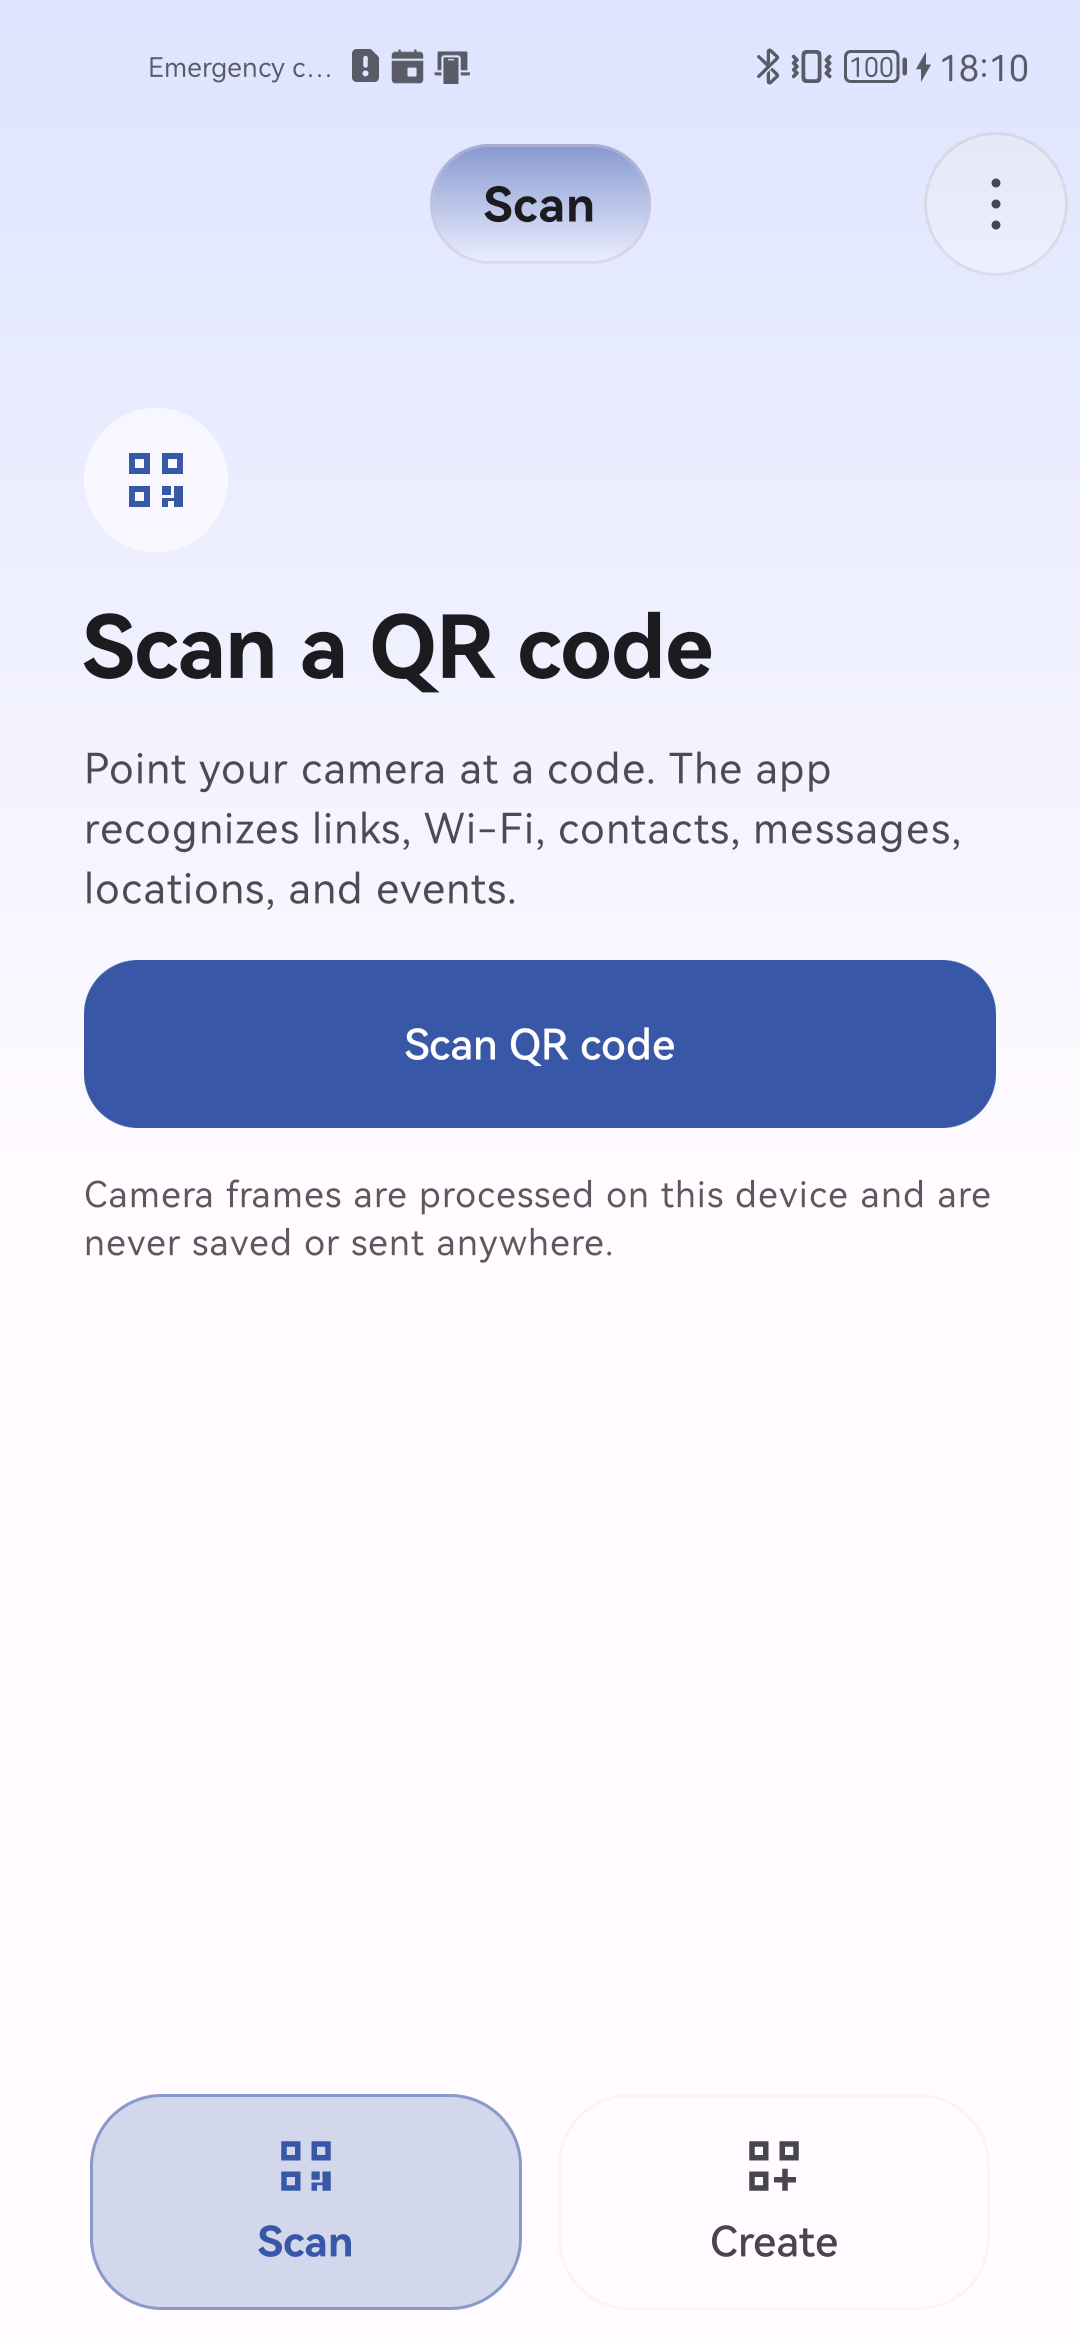
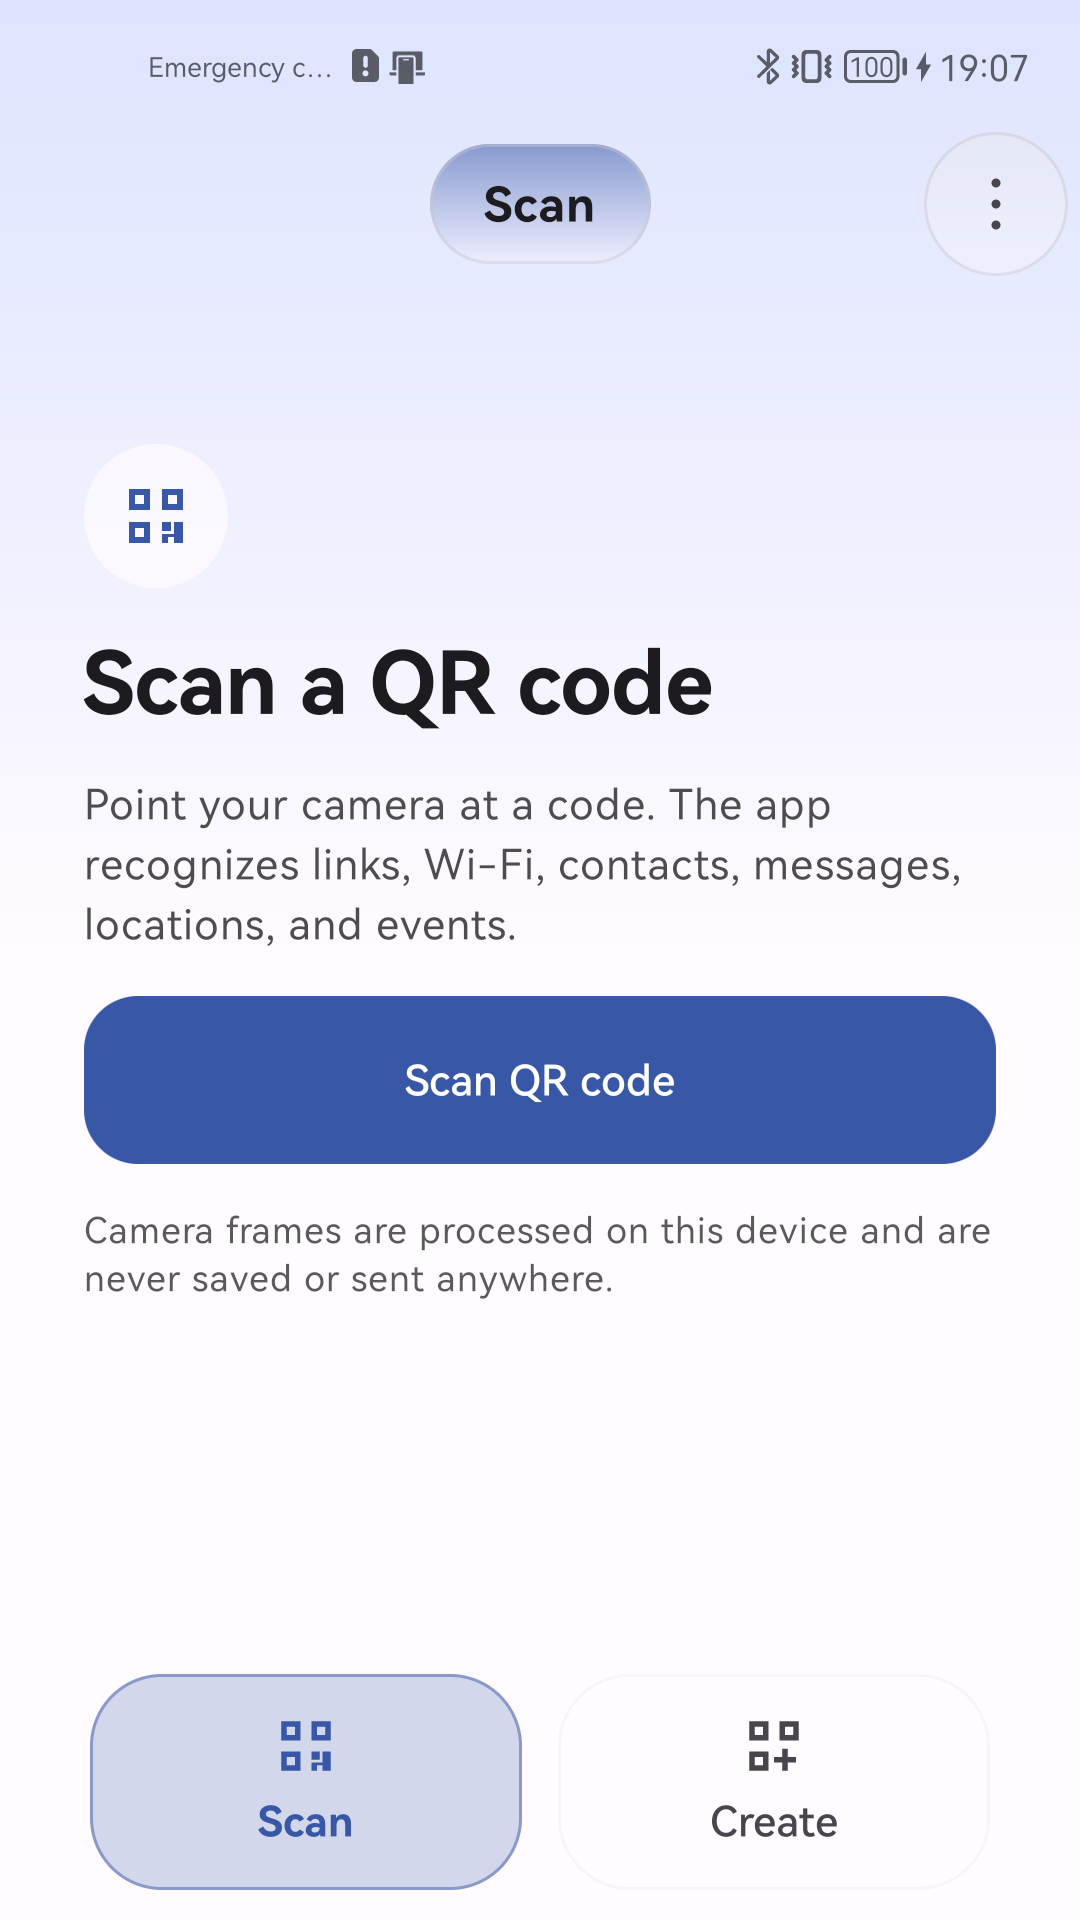
fix(ui): let content scroll under controls (#6)

diff --git a/app/src/main/java/com/majkeylab/qrscannercreator/AppUi.kt b/app/src/main/java/com/majkeylab/qrscannercreator/AppUi.kt
@@ -38,7 +38,6 @@ import androidx.compose.material3.Icon
 import androidx.compose.material3.IconButton
 import androidx.compose.material3.MaterialTheme
 import androidx.compose.material3.OutlinedButton
-import androidx.compose.material3.Scaffold
 import androidx.compose.material3.Shapes
 import androidx.compose.material3.Surface
 import androidx.compose.material3.Text
@@ -104,115 +103,112 @@ fun QrApp(
                 Modifier.fillMaxSize()
                     .background(Brush.verticalGradient(tab.backgroundColors())),
         ) {
-            Scaffold(
-                containerColor = Color.Transparent,
-                topBar = {
-                    CenterAlignedTopAppBar(
-                        colors =
-                            TopAppBarDefaults.topAppBarColors(
-                                containerColor = Color.Transparent,
-                                scrolledContainerColor = Color.Transparent,
+            val contentPadding = PaddingValues(top = 112.dp, bottom = 112.dp)
+            when (tab) {
+                AppTab.SCAN ->
+                    Box(modifier = Modifier.fillMaxSize(), contentAlignment = Alignment.TopCenter) {
+                        ScanScreen(
+                            result = scanResult,
+                            scanError = scanError,
+                            actionNotice = actionNotice,
+                            actionError = actionError,
+                            onScan = onScan,
+                            onPerformAction = onPerformAction,
+                            onCopy = onCopy,
+                            onShare = onShareText,
+                            contentPadding = contentPadding,
+                            modifier = Modifier.fillMaxHeight().widthIn(max = 680.dp).fillMaxWidth(),
+                        )
+                    }
+                AppTab.CREATE ->
+                    Box(modifier = Modifier.fillMaxSize(), contentAlignment = Alignment.TopCenter) {
+                        CreatorScreen(
+                            pickedPhone = pickedPhone,
+                            pickedLogo = pickedLogo,
+                            onPickPhone = onPickPhone,
+                            onPickLogo = onPickLogo,
+                            onClearLogo = onClearLogo,
+                            onShareImage = onShareImage,
+                            contentPadding = contentPadding,
+                            modifier = Modifier.fillMaxHeight().widthIn(max = 680.dp).fillMaxWidth(),
+                        )
+                    }
+            }
+
+            CenterAlignedTopAppBar(
+                modifier = Modifier.align(Alignment.TopCenter),
+                colors =
+                    TopAppBarDefaults.topAppBarColors(
+                        containerColor = Color.Transparent,
+                        scrolledContainerColor = Color.Transparent,
+                    ),
+                title = {
+                    Surface(
+                        color = Color.Transparent,
+                        shape = RoundedCornerShape(20.dp),
+                        border =
+                            BorderStroke(
+                                1.dp,
+                                MaterialTheme.colorScheme.outlineVariant.copy(alpha = 0.45f),
                             ),
-                        title = {
-                            Surface(
-                                color = Color.Transparent,
-                                shape = RoundedCornerShape(20.dp),
-                                border =
-                                    BorderStroke(
-                                        1.dp,
-                                        MaterialTheme.colorScheme.outlineVariant.copy(alpha = 0.45f),
-                                    ),
-                            ) {
-                                Text(
-                                    stringResource(tab.label),
-                                    modifier =
-                                        Modifier.background(glassBrush(MaterialTheme.colorScheme.primary))
-                                            .padding(horizontal = 18.dp, vertical = 8.dp),
-                                    maxLines = 1,
-                                    overflow = TextOverflow.Ellipsis,
-                                    style = MaterialTheme.typography.titleMedium,
-                                    fontWeight = FontWeight.Bold,
-                                )
-                            }
-                        },
-                        actions = {
-                            Box {
-                                Surface(
-                                    shape = CircleShape,
-                                    color = Color.Transparent,
-                                    border =
-                                        BorderStroke(
-                                            1.dp,
-                                            MaterialTheme.colorScheme.outlineVariant.copy(alpha = 0.45f),
-                                        ),
-                                ) {
-                                    Box(modifier = Modifier.background(glassBrush())) {
-                                        IconButton(onClick = { menuExpanded = true }) {
-                                            Icon(
-                                                painterResource(R.drawable.ic_more_vert),
-                                                contentDescription = stringResource(R.string.more_options),
-                                            )
-                                        }
-                                    }
-                                }
-                                DropdownMenu(
-                                    expanded = menuExpanded,
-                                    onDismissRequest = { menuExpanded = false },
-                                ) {
-                                    DropdownMenuItem(
-                                        text = { Text(stringResource(R.string.about)) },
-                                        onClick = {
-                                            menuExpanded = false
-                                            aboutVisible = true
-                                        },
+                    ) {
+                        Text(
+                            stringResource(tab.label),
+                            modifier =
+                                Modifier.background(glassBrush(MaterialTheme.colorScheme.primary))
+                                    .padding(horizontal = 18.dp, vertical = 8.dp),
+                            maxLines = 1,
+                            overflow = TextOverflow.Ellipsis,
+                            style = MaterialTheme.typography.titleMedium,
+                            fontWeight = FontWeight.Bold,
+                        )
+                    }
+                },
+                actions = {
+                    Box {
+                        Surface(
+                            shape = CircleShape,
+                            color = Color.Transparent,
+                            border =
+                                BorderStroke(
+                                    1.dp,
+                                    MaterialTheme.colorScheme.outlineVariant.copy(alpha = 0.45f),
+                                ),
+                        ) {
+                            Box(modifier = Modifier.background(glassBrush())) {
+                                IconButton(onClick = { menuExpanded = true }) {
+                                    Icon(
+                                        painterResource(R.drawable.ic_more_vert),
+                                        contentDescription = stringResource(R.string.more_options),
                                     )
                                 }
                             }
-                        },
-                    )
-                },
-                bottomBar = {
-                    Box(
-                        modifier =
-                            Modifier.fillMaxWidth()
-                                .navigationBarsPadding()
-                                .padding(horizontal = 24.dp, vertical = 10.dp),
-                        contentAlignment = Alignment.Center,
-                    ) {
-                        GlassTabBar(selected = tab, onSelected = { tab = it })
+                        }
+                        DropdownMenu(
+                            expanded = menuExpanded,
+                            onDismissRequest = { menuExpanded = false },
+                        ) {
+                            DropdownMenuItem(
+                                text = { Text(stringResource(R.string.about)) },
+                                onClick = {
+                                    menuExpanded = false
+                                    aboutVisible = true
+                                },
+                            )
+                        }
                     }
                 },
-            ) { innerPadding ->
-                when (tab) {
-                    AppTab.SCAN ->
-                        Box(modifier = Modifier.fillMaxSize(), contentAlignment = Alignment.TopCenter) {
-                            ScanScreen(
-                                result = scanResult,
-                                scanError = scanError,
-                                actionNotice = actionNotice,
-                                actionError = actionError,
-                                onScan = onScan,
-                                onPerformAction = onPerformAction,
-                                onCopy = onCopy,
-                                onShare = onShareText,
-                                contentPadding = innerPadding,
-                                modifier = Modifier.fillMaxHeight().widthIn(max = 680.dp).fillMaxWidth(),
-                            )
-                        }
-                    AppTab.CREATE ->
-                        Box(modifier = Modifier.fillMaxSize(), contentAlignment = Alignment.TopCenter) {
-                            CreatorScreen(
-                                pickedPhone = pickedPhone,
-                                pickedLogo = pickedLogo,
-                                onPickPhone = onPickPhone,
-                                onPickLogo = onPickLogo,
-                                onClearLogo = onClearLogo,
-                                onShareImage = onShareImage,
-                                contentPadding = innerPadding,
-                                modifier = Modifier.fillMaxHeight().widthIn(max = 680.dp).fillMaxWidth(),
-                            )
-                        }
-                }
+            )
+
+            Box(
+                modifier =
+                    Modifier.align(Alignment.BottomCenter)
+                        .fillMaxWidth()
+                        .navigationBarsPadding()
+                        .padding(horizontal = 24.dp, vertical = 10.dp),
+                contentAlignment = Alignment.Center,
+            ) {
+                GlassTabBar(selected = tab, onSelected = { tab = it })
             }
         }
 
@@ -311,17 +307,13 @@ private fun ScanScreen(
     modifier: Modifier,
 ) {
     LazyColumn(
-        modifier =
-            modifier.padding(
-                top = contentPadding.calculateTopPadding(),
-                bottom = contentPadding.calculateBottomPadding(),
-            ),
+        modifier = modifier,
         contentPadding =
             PaddingValues(
                 start = 24.dp,
-                top = 28.dp,
+                top = contentPadding.calculateTopPadding() + 28.dp,
                 end = 24.dp,
-                bottom = 28.dp,
+                bottom = contentPadding.calculateBottomPadding() + 28.dp,
             ),
         verticalArrangement = Arrangement.spacedBy(16.dp),
     ) {

diff --git a/app/src/main/java/com/majkeylab/qrscannercreator/CreatorUi.kt b/app/src/main/java/com/majkeylab/qrscannercreator/CreatorUi.kt
@@ -148,17 +148,13 @@ fun CreatorScreen(
     }
 
     LazyColumn(
-        modifier =
-            modifier.padding(
-                top = contentPadding.calculateTopPadding(),
-                bottom = contentPadding.calculateBottomPadding(),
-            ),
+        modifier = modifier,
         contentPadding =
             PaddingValues(
                 start = 24.dp,
-                top = 28.dp,
+                top = contentPadding.calculateTopPadding() + 28.dp,
                 end = 24.dp,
-                bottom = 28.dp,
+                bottom = contentPadding.calculateBottomPadding() + 28.dp,
             ),
         verticalArrangement = Arrangement.spacedBy(18.dp),
     ) {

diff --git a/CHANGELOG.md b/CHANGELOG.md
@@ -1,5 +1,9 @@
 # Changelog
 
+## 1.1.3 - 2026-08-25
+
+- Removed the reserved app-bar regions so content scrolls naturally beneath the translucent controls.
+
 ## 1.1.2 - 2026-08-25
 
 - Replaced the shared bottom navigation panel with two translucent Scan and Create controls.
